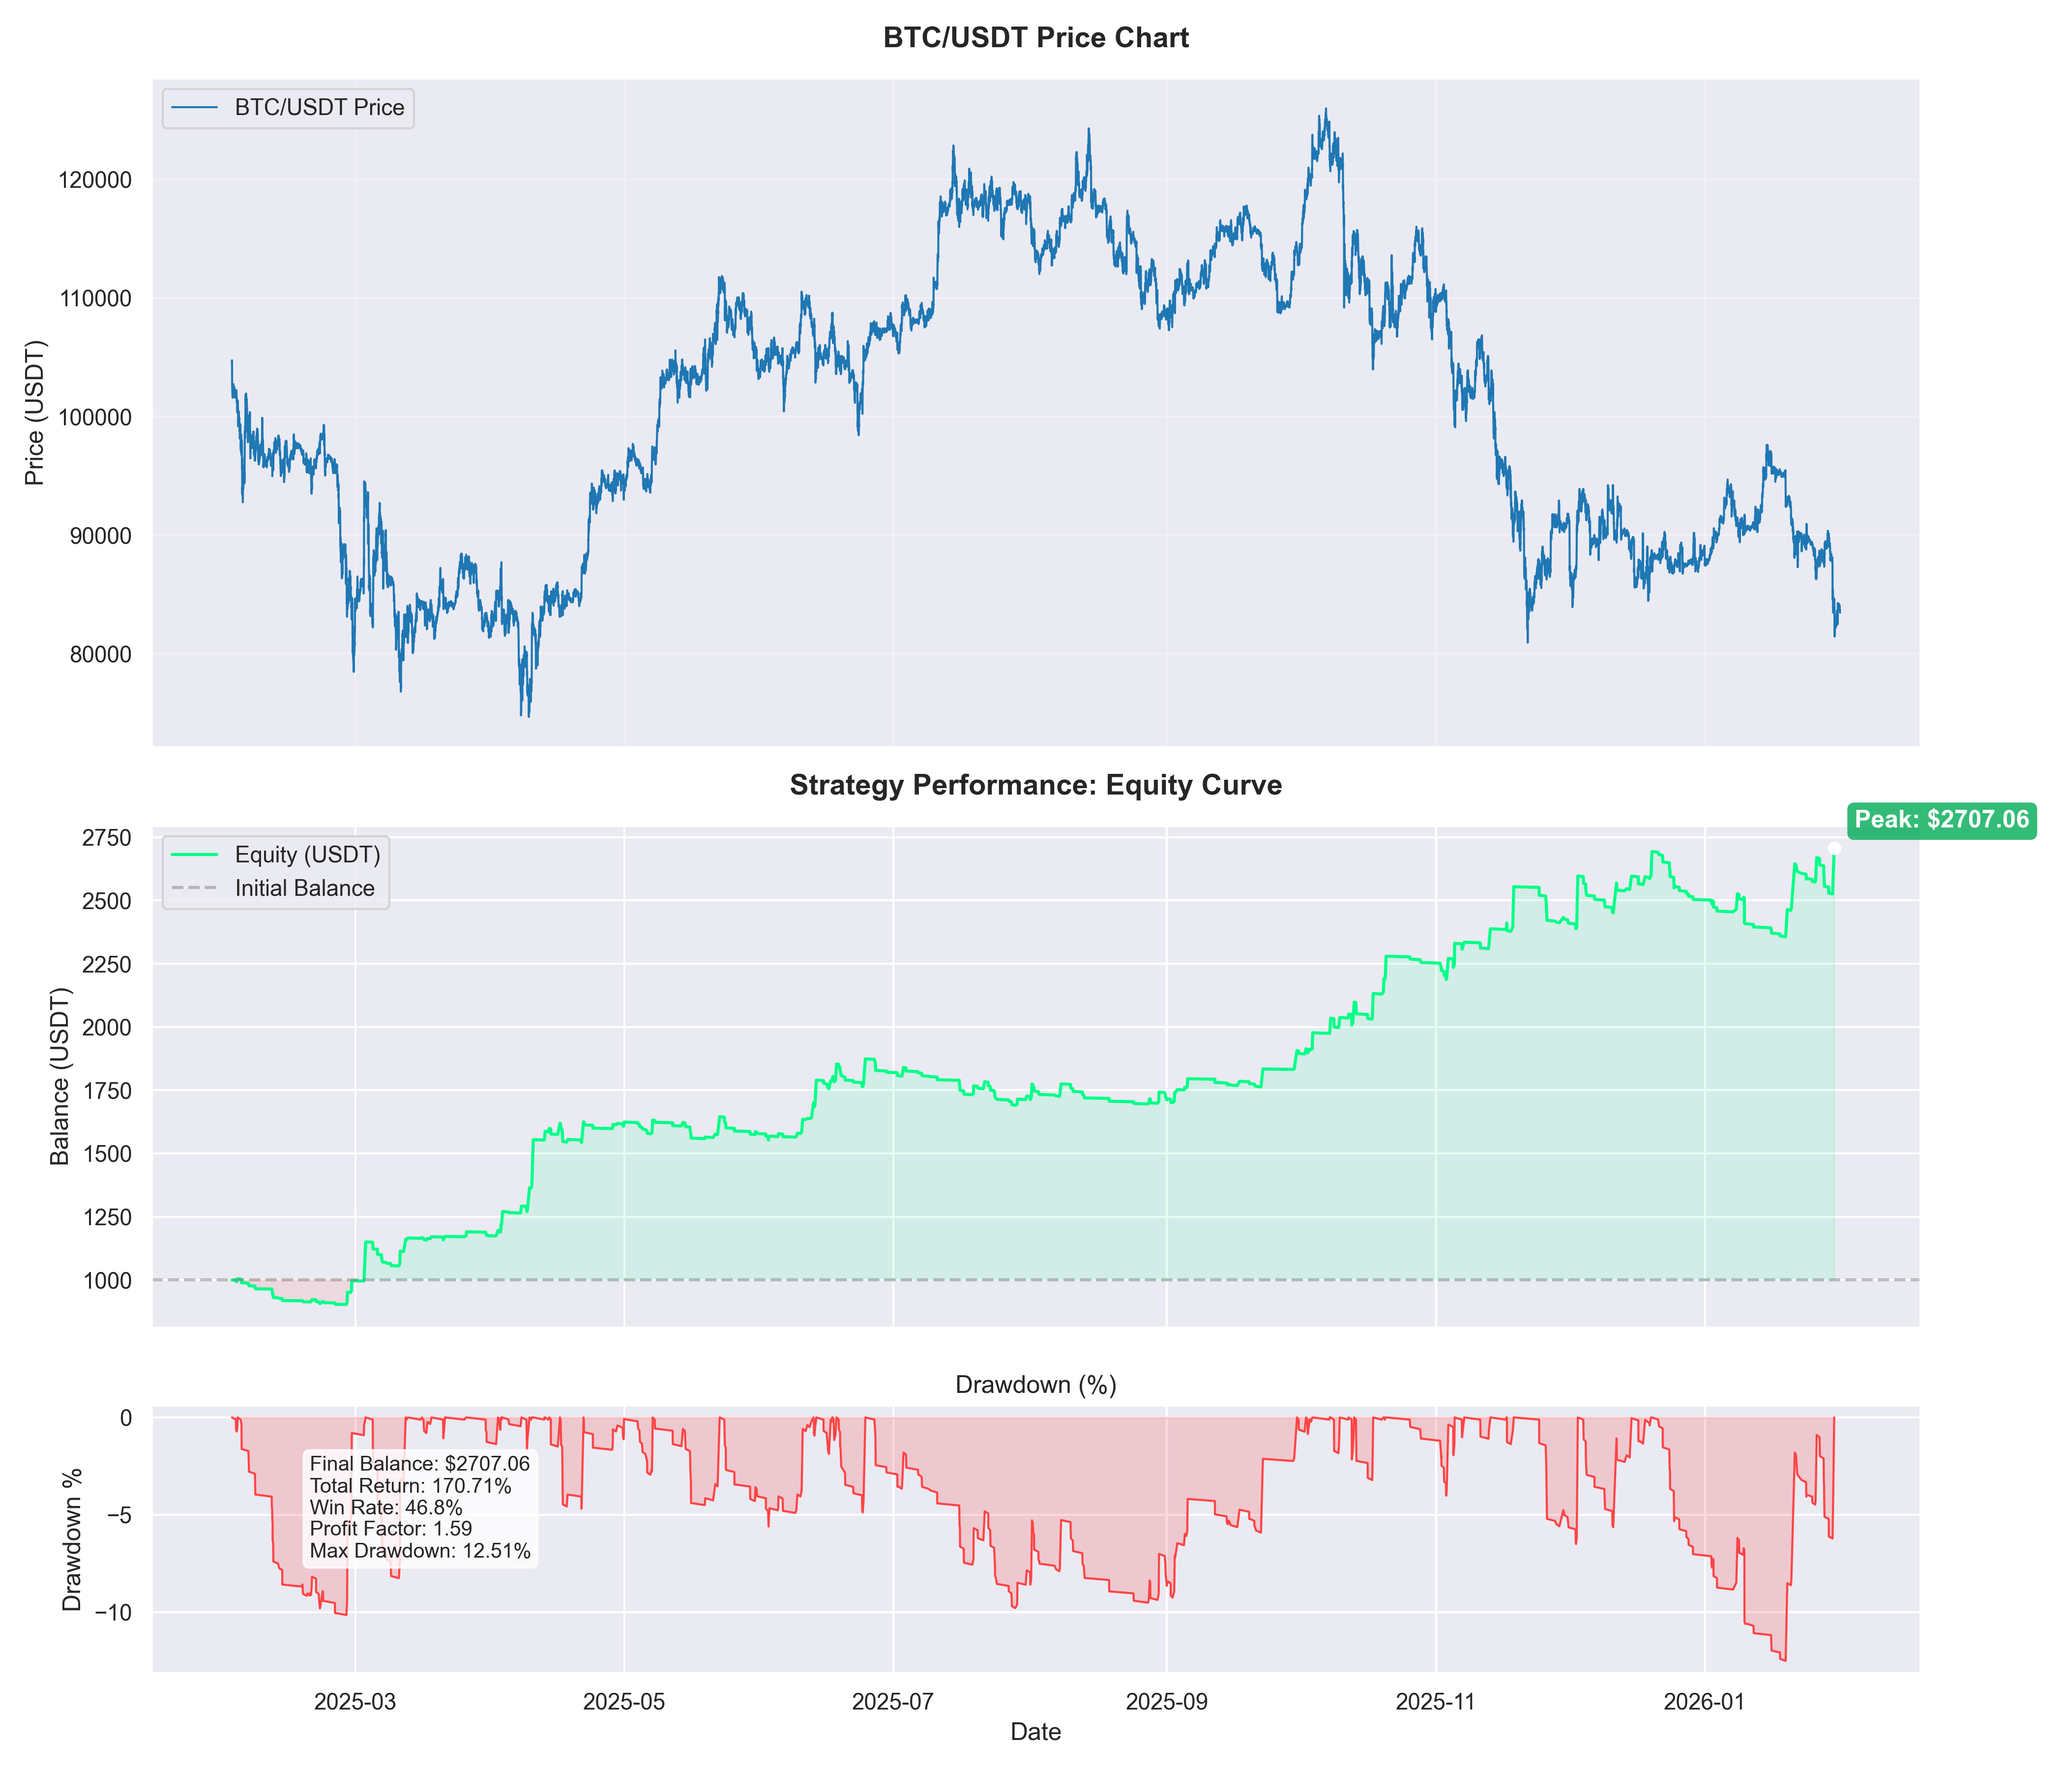
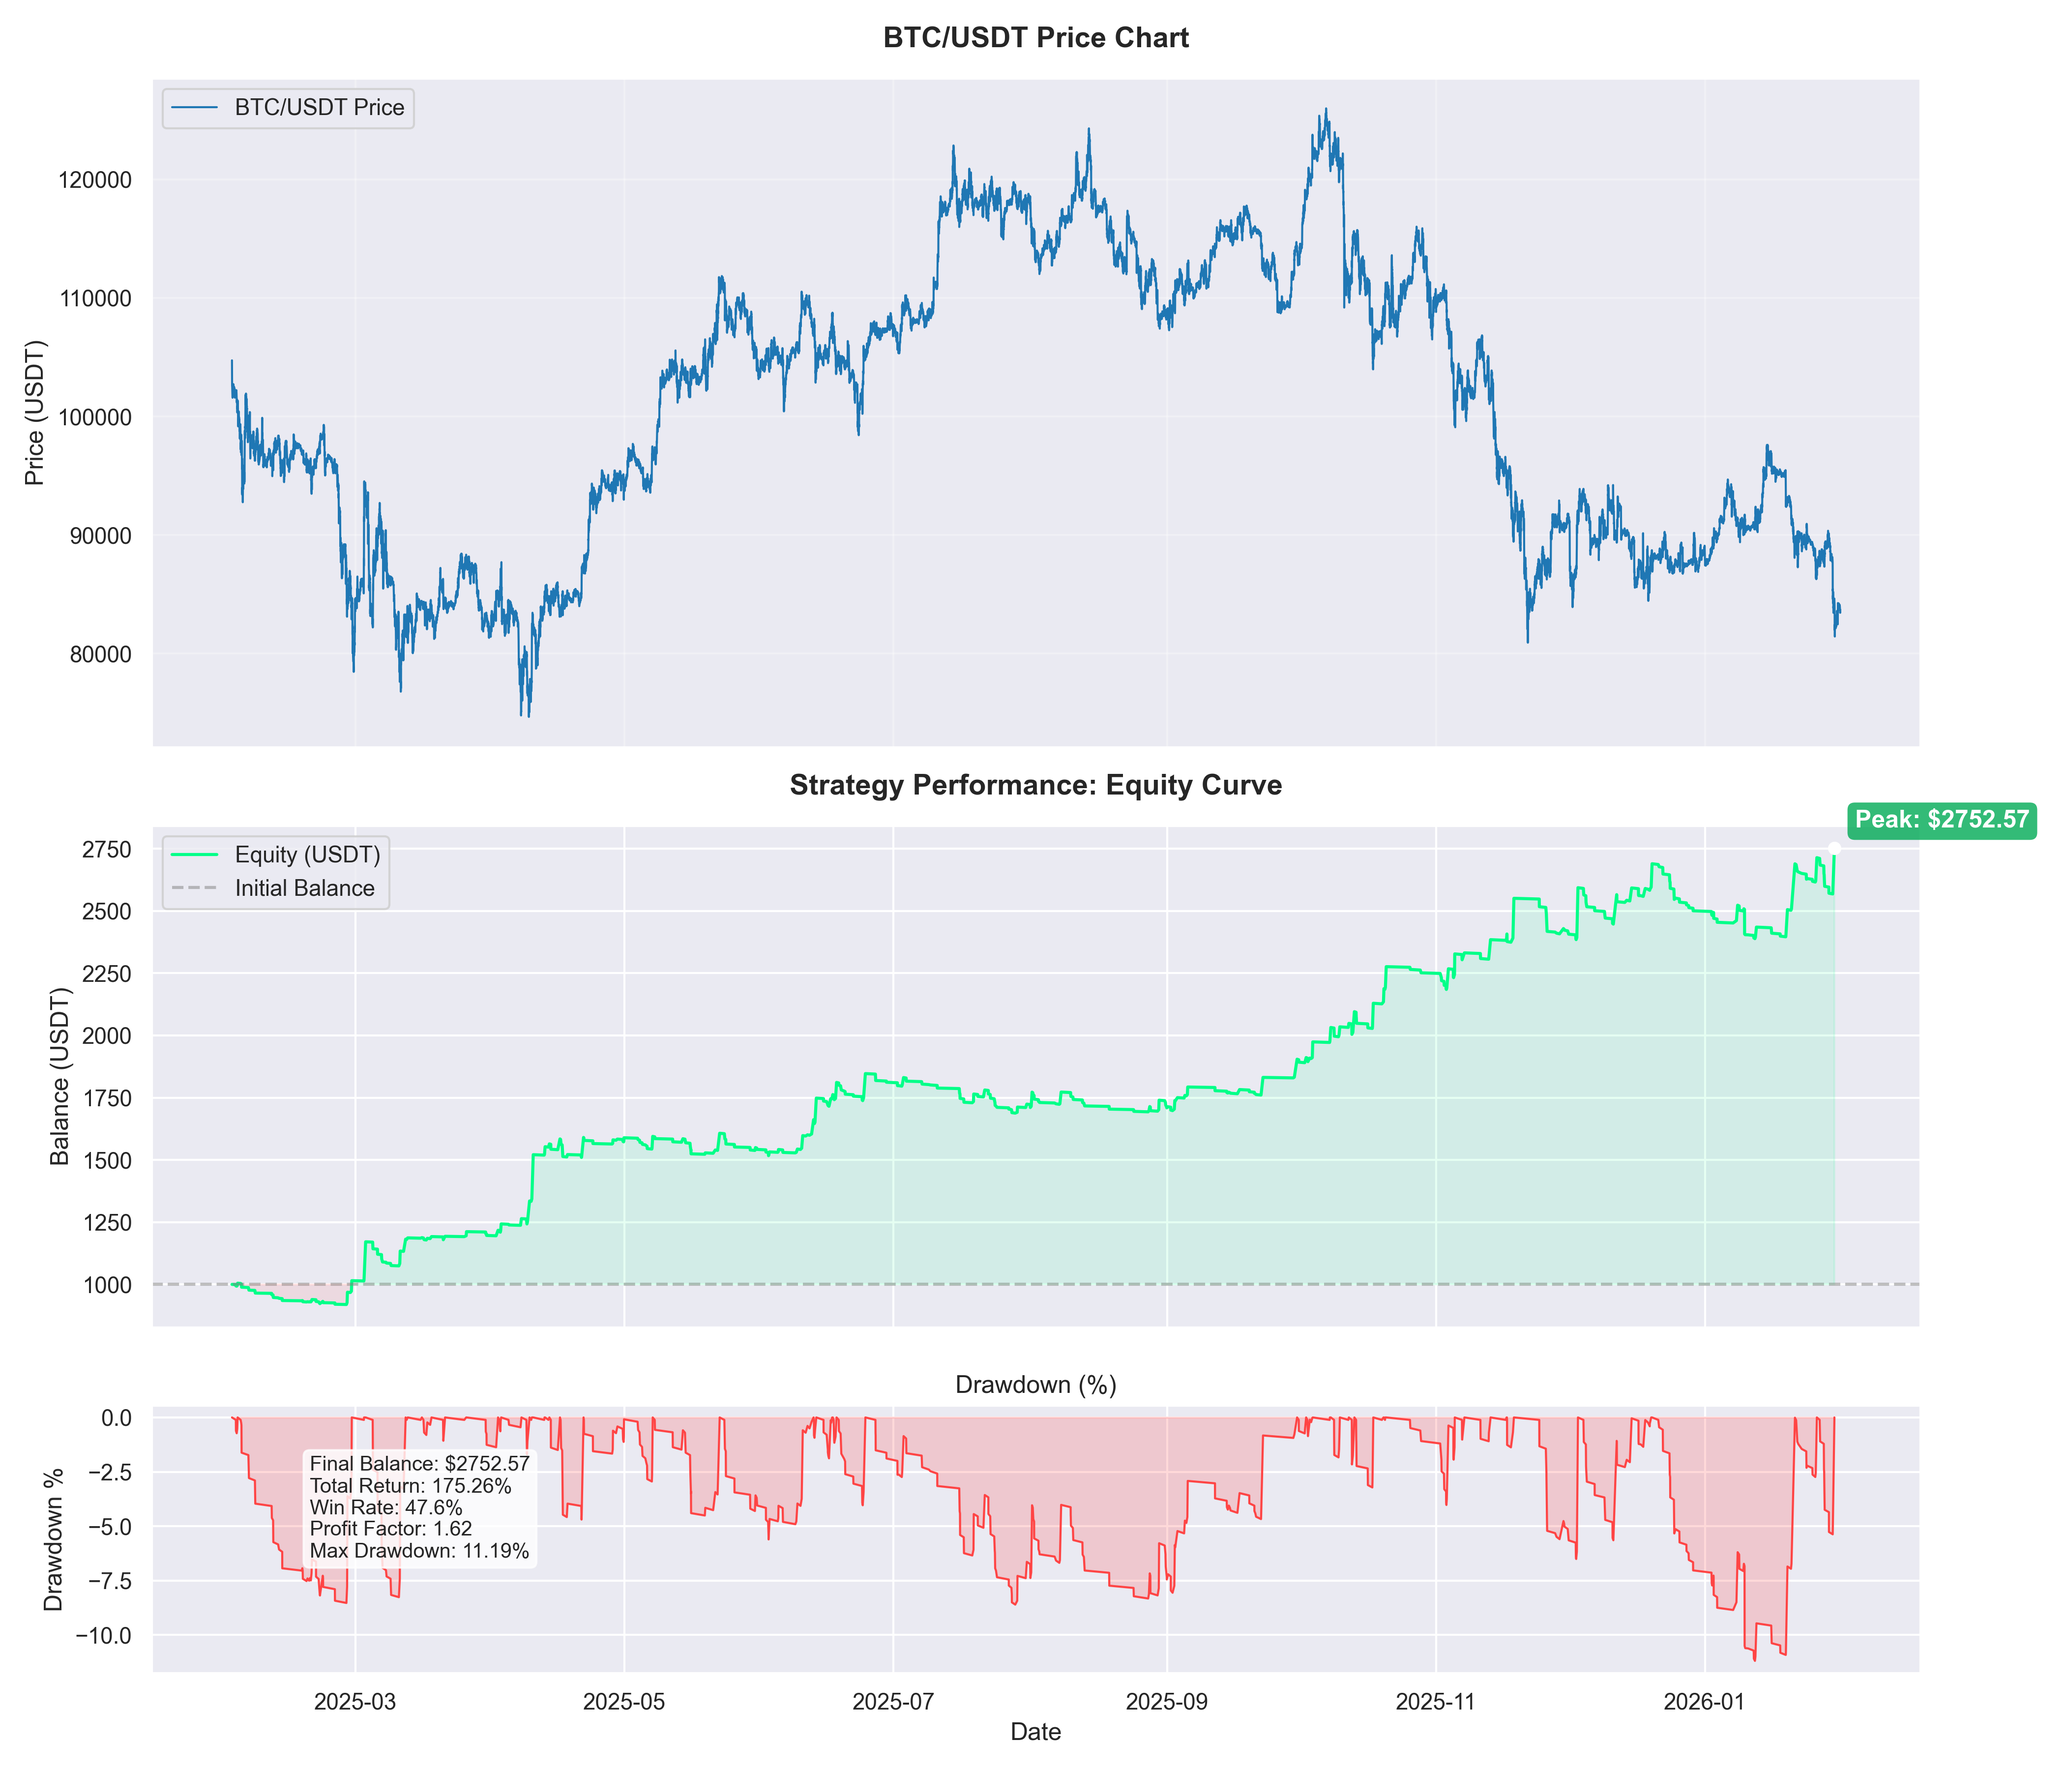
perf: Optimize EMA length to 106 based on grid search optimization for improved trading performance.

diff --git a/optimize/optimize_ema.py b/optimize/optimize_ema.py
@@ -1,0 +1,116 @@
+import sys
+import os
+import pandas as pd
+import numpy as np
+from concurrent.futures import ProcessPoolExecutor, as_completed
+
+# Add the project root to sys.path
+sys.path.append(os.path.dirname(os.path.dirname(os.path.abspath(__file__))))
+
+from backtest import simulate, get_backtest_data
+from bot.data_processor import DataProcessor
+from config import (
+    SUPERTREND_LENGTH, SUPERTREND_FACTOR, ADX_LENGTH, 
+    ATR_LENGTH, PARTIAL_TP_MULTIPLIER, PARTIAL_TP_PERCENT, 
+    ATR_MULTIPLIER, ADX_THRESHOLD, RSI_LENGTH, RSI_OVERBOUGHT, RSI_OVERSOLD,
+    VOLUME_MA_LENGTH
+)
+
+def run_simulation(ema_len, df_ha, df):
+    """
+    Run simulation with a specific EMA length.
+    We need to recalculate EMA and SuperTrend for each iteration.
+    """
+    # Calculate SuperTrend (depends on Heikin Ashi)
+    df_st = DataProcessor.calculate_supertrend(df_ha)
+    
+    # Calculate EMA with custom length
+    df_st[f'EMA_{ema_len}'] = DataProcessor.calculate_ema(df_st.copy(), length=ema_len)[f'EMA_{ema_len}']
+    
+    # Add other indicators
+    df_st['ADX'] = DataProcessor.calculate_adx(df, length=ADX_LENGTH)
+    df_st['ATR'] = DataProcessor.calculate_atr(df, length=ATR_LENGTH)
+    df_st['RSI'] = DataProcessor.calculate_rsi(df, length=RSI_LENGTH)
+    df_st = DataProcessor.calculate_volume_ma(df_st, length=VOLUME_MA_LENGTH)
+    
+    # Temporarily rename EMA column to match simulate expectations
+    df_st['EMA_FILTER'] = df_st[f'EMA_{ema_len}']
+    
+    res, _ = simulate(df_st, 
+                      use_ema_filter=True, 
+                      tp_multiplier=PARTIAL_TP_MULTIPLIER, 
+                      tp_percent=PARTIAL_TP_PERCENT,
+                      sl_multiplier=ATR_MULTIPLIER,
+                      adx_threshold=ADX_THRESHOLD,
+                      use_rsi_filter=True,
+                      rsi_overbought=RSI_OVERBOUGHT,
+                      rsi_oversold=RSI_OVERSOLD,
+                      use_volume_filter=True)
+    
+    return {
+        'ema_length': ema_len,
+        'pnl_pct': res['pnl_pct'],
+        'win_rate': res['win_rate'],
+        'pf': res['profit_factor'],
+        'mdd': res['max_drawdown'],
+        'total_trades': res['total_trades']
+    }
+
+def run_optimization():
+    print(f"🚀 Starting Multi-threaded EMA Length Optimization...")
+    print(f"Base Settings: ADX>{ADX_THRESHOLD}, RSI<{RSI_OVERBOUGHT}/>{RSI_OVERSOLD}, Vol MA>{VOLUME_MA_LENGTH}")
+    
+    # 1. Load data
+    df = get_backtest_data()
+    if df is None:
+        print("❌ Could not load data.")
+        return
+
+    # 2. Pre-calculate Heikin Ashi (common for all EMA lengths)
+    print("📊 Pre-calculating Heikin Ashi candles...")
+    df_ha = DataProcessor.calculate_heikin_ashi(df)
+    
+    # 3. Define range for EMA Length
+    # Testing from 20 to 200 with step of 10
+    ema_lengths = np.arange(90, 110, 1)
+    
+    print(f"🔍 Testing {len(ema_lengths)} EMA Lengths...")
+    
+    results = []
+    with ProcessPoolExecutor() as executor:
+        futures = [executor.submit(run_simulation, length, df_ha, df) for length in ema_lengths]
+        
+        for i, future in enumerate(as_completed(futures)):
+            results.append(future.result())
+            if (i + 1) % 5 == 0 or (i + 1) == len(ema_lengths):
+                print(f"✅ Progress: {i+1}/{len(ema_lengths)} completed...")
+
+    # 4. Analyze results
+    opt_df = pd.DataFrame(results)
+    opt_df.to_csv("optimization_results_ema.csv", index=False)
+    print("\n✅ Results saved to optimization_results_ema.csv")
+    
+    # Sort by PnL
+    best_pnl = opt_df.sort_values(by='pnl_pct', ascending=False).head(10)
+    
+    # Sort by Profit Factor
+    best_pf = opt_df[opt_df['pf'] != float('inf')].sort_values(by='pf', ascending=False).head(10)
+    
+    print("\n🏆 Top 10 by Net Profit (PnL %):")
+    print(best_pnl.to_string(index=False))
+    
+    print("\n💎 Top 10 by Profit Factor:")
+    print(best_pf.to_string(index=False))
+
+    # Recommend the best overall (Balance MDD and PnL)
+    best_overall = opt_df[opt_df['mdd'] < 20].sort_values(by='pnl_pct', ascending=False).head(1)
+    
+    if not best_overall.empty:
+        print("\n🌟 RECOMMENDED EMA LENGTH:")
+        print(best_overall.to_string(index=False))
+    else:
+        print("\n⚠ No configuration found with MDD < 20%. Showing best by PnL:")
+        print(opt_df.sort_values(by='pnl_pct', ascending=False).head(1).to_string(index=False))
+
+if __name__ == "__main__":
+    run_optimization()

diff --git a/config.py b/config.py
@@ -14,7 +14,7 @@ SYMBOL = "BTC/USDT"
 TIMEFRAME = "15m"             # Changed to 15m to reduce noise and fees
 SUPERTREND_LENGTH = 15
 SUPERTREND_FACTOR = 1.5       # Higher factor = more stable trend
-EMA_LENGTH = 99              # Stronger trend filter
+EMA_LENGTH = 106              # Stronger trend filter
 LEVERAGE = 9                 # Optimal leverage for BTC
 POSITION_SIZE_PERCENT = 0.25   # Use 30% of balance per position (Balanced Risk/Reward)
 MAX_TRADES_PER_HOUR = 5       # Safety: Limit trades per hour to prevent API spam

diff --git a/main.py b/main.py
@@ -1,4 +1,4 @@
-# Binance Trading Bot - v1.8.0 (Volume MA Filter)
+# Binance Trading Bot - v1.8.1 (EMA Optimization)
 import time
 from bot.exchange_client import ExchangeClient
 from bot.strategy import Strategy

diff --git a/README.md b/README.md
@@ -1,4 +1,4 @@
-# Binance SuperTrend & EMA Trading Bot 🚀 (v1.8.0)
+# Binance SuperTrend & EMA Trading Bot 🚀 (v1.8.1)
 
 A robust, automated cryptocurrency trading bot for Binance Futures, built with Python. This bot utilizes a trend-following strategy combining **SuperTrend** and **EMA 99** (default) to capture major market moves while filtering out noise.
 
@@ -25,8 +25,8 @@ The bot implements an optimized trend-following strategy designed for the **15m 
 
 ### 1. Indicators
 *   **Heikin Ashi Candles**: Smoothens price action for better trend identification.
-*   **SuperTrend (15, 1.5)**: Used to detect short-term price momentum shifts.
-*   **EMA 99**: Long-term trend filter. Trades are only opened in the direction of the EMA.
+*   **SuperTrend (15, 1.5)**: Core trend indicator using Heikin Ashi candles.
+*   **EMA (106)**: Long-term trend filter. Bot only trades in the direction of the EMA.
 *   **ADX (14)**: Trend Strength filter. Bot only enters when ADX > 19 (Optimized for 15m).
 *   **ATR (14)**: Measures market volatility.
 *   **RSI (14)**: Overbought/Oversold filter to avoid market extremes.
@@ -38,8 +38,8 @@ The execution logic is split into hai independent steps: **Exit (Priority)** and
 
 | Current State | Event (SuperTrend) | EMA Filter | ADX Filter | RSI Filter | Volume Filter | Action | Resulting State |
 | :--- | :--- | :--- | :--- | :--- | :--- | :--- | :--- |
-| **Empty** | Red $\rightarrow$ **Green** | Price > EMA 99 | **ADX > 19** | **RSI < 66** | **Vol > MA(55)** | **Open LONG** | LONG |
-| **Empty** | Green $\rightarrow$ **Red** | Price < EMA 99 | **ADX > 19** | **RSI > 35** | **Vol > MA(55)** | **Open SHORT** | SHORT |
+| **Empty** | Red $\rightarrow$ **Green** | Price > EMA 106 | **ADX > 19** | **RSI < 66** | **Vol > MA(55)** | **Open LONG** | LONG |
+| **Empty** | Green $\rightarrow$ **Red** | Price < EMA 106 | **ADX > 19** | **RSI > 35** | **Vol > MA(55)** | **Open SHORT** | SHORT |
 | **LONG** | Green $\rightarrow$ **Red** | Any | Any | Any | Any | **Close LONG** | Empty |
 | **SHORT** | Red $\rightarrow$ **Green** | Any | Any | Any | Any | **Close SHORT** | Empty |
 | **ANY** | Price hits **5.0x ATR** | Any | Any | Any | **Partial TP (10%)** | Holding (Reduced) |
@@ -116,7 +116,7 @@ SYMBOL = "BTC/USDT"
 TIMEFRAME = "15m"
 SUPERTREND_LENGTH = 15
 SUPERTREND_FACTOR = 1.5
-EMA_LENGTH = 99
+EMA_LENGTH = 106
 LEVERAGE = 9
 POSITION_SIZE_PERCENT = 0.25
 ADX_THRESHOLD = 19

diff --git a/CHANGELOG.md b/CHANGELOG.md
@@ -2,6 +2,16 @@
  
  All notable changes to this project will be documented in this file.
  
+## [1.8.1] - 2026-01-31
+### Optimized
+- **EMA Length:** Fine-tuned EMA parameter from 99 -> **106** based on grid search optimization.
+- **Performance Improvement:**
+    - **Profit Factor:** Increased from 1.58 -> **1.62** (+2.5%).
+    - **Total PnL:** Increased from 170% -> **175.26%** (+3%).
+    - **Win Rate:** Improved to **47.6%**.
+    - **Max Drawdown:** Maintained at **11.19%**.
+    - **Total Trades:** Optimized to 328 (higher quality).
+
 ## [1.8.0] - 2026-01-31
 ### Added
 - **Volume MA Filter:** Implemented Volume Moving Average filter to ensure trades only execute during high liquidity periods.
